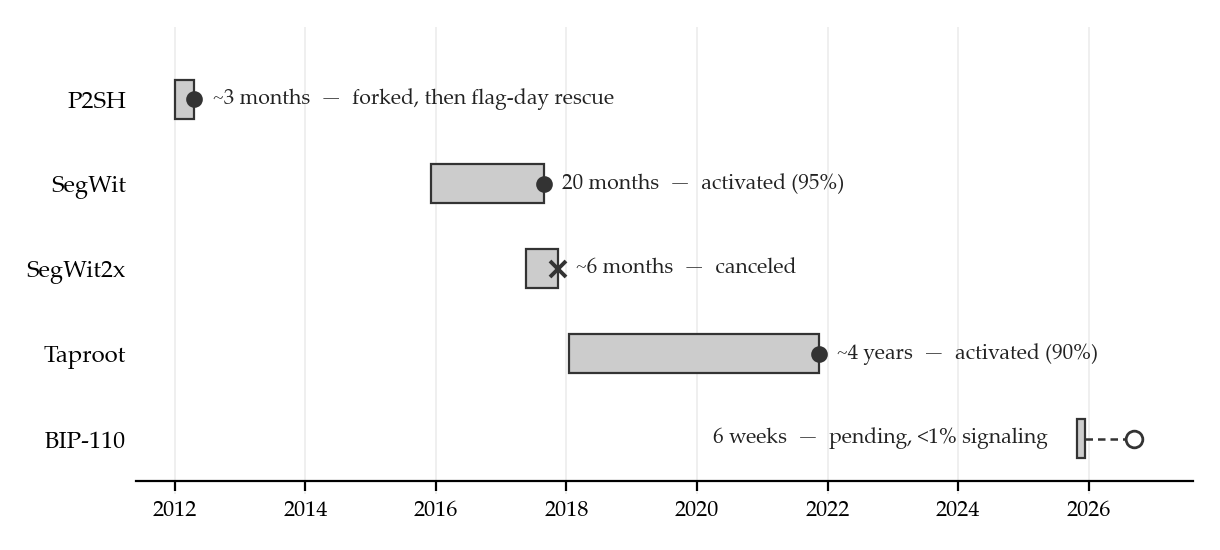
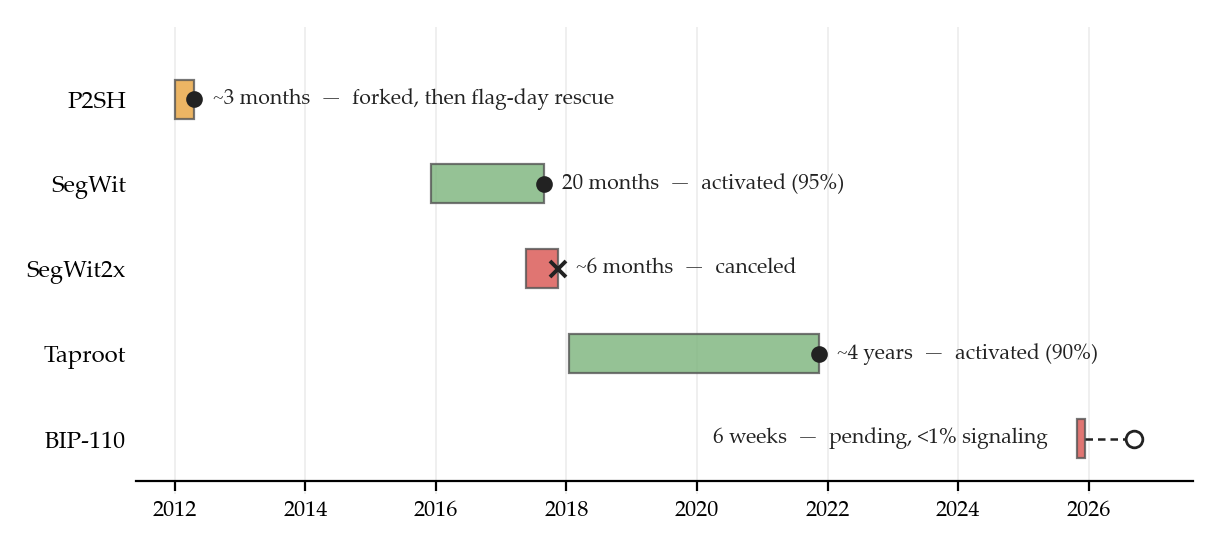
v4: color-code Figure 2.1 bars by outcome, reusing Fig 3.1's risk-band palette
Bar fill now encodes outcome on the same Red/Amber/Green semantic as Fig 3.1's threshold bands and the Sec 5.2 scorecard: green = clean activation (SegWit, Taproot), amber = activated but forked (P2SH), red = canceled/pending (SegWit2x, BIP-110). Length still = review period; the end-cap glyph (dot/x/hollow) repeats outcome in shape, so it stays legible in grayscale and to red-green-colorblind readers. Ties Fig 2.1, Fig 3.1, and the scorecard into one color language. (Per-project rainbow rejected: hue-by-identity is redundant with the lane labels.)

Build: 92 pp (unchanged), exit 0, 0 undefined, 2 overfull (1.98/1.53 pt) + 14 underfull unchanged, 736,128 B. Page 24 render-verified. Monochrome lane chart preserved at References/_fig_2_1_timeline_MONO.* (+ git af3cd46); original timeline at References/_fig_2_1_timeline_OLD.* (+ git 753ff06).

diff --git a/LaTeX/fig_2_1_timeline.py b/LaTeX/fig_2_1_timeline.py
@@ -2,7 +2,11 @@
 # Figure 2.1: review-duration lifecycles of five Bitcoin consensus changes, 2012-2026.
 # One lane per proposal on a shared time axis. Each bar runs from first proposal to
 # activation (or cancellation), drawn to scale, so the bar LENGTH is the review period
-# -- the comparison the caption draws. No vertical leader lines; labels live in-lane.
+# -- the comparison the caption draws. Bar COLOR encodes outcome, reusing Fig 3.1's
+# risk-band palette (green = clean activation, amber = activated but forked, red =
+# canceled / pending) so the two figures and the Sec 5.2 scorecard share one
+# Red<->Green safety semantic. End-cap glyph (dot / x / hollow) repeats the outcome in
+# shape, so the figure survives grayscale printing and red-green colorblindness.
 import matplotlib.pyplot as plt
 
 plt.rcParams.update({
@@ -11,39 +15,40 @@ plt.rcParams.update({
     "font.size": 9,
 })
 
-# name, start(yr), end(yr), duration label, outcome label, end-glyph, pending_end
+# Fig 3.1 band palette
+GREEN, AMBER, RED = "#7bb37b", "#e8a33d", "#d9534f"
+
+# name, start(yr), end(yr), duration label, outcome label, end-glyph, pending_end, color
 LANES = [
-    ("P2SH",     2012.00, 2012.30, "~3 months", "forked, then flag-day rescue", "dot",  None),
-    ("SegWit",   2015.92, 2017.65, "20 months", "activated (95%)",              "dot",  None),
-    ("SegWit2x", 2017.38, 2017.87, "~6 months", "canceled",                     "x",    None),
-    ("Taproot",  2018.04, 2021.87, "~4 years",  "activated (90%)",              "dot",  None),
-    ("BIP-110",  2025.82, 2025.94, "6 weeks",   "pending, <1% signaling",       "open", 2026.70),
+    ("P2SH",     2012.00, 2012.30, "~3 months", "forked, then flag-day rescue", "dot",  None,   AMBER),
+    ("SegWit",   2015.92, 2017.65, "20 months", "activated (95%)",              "dot",  None,   GREEN),
+    ("SegWit2x", 2017.38, 2017.87, "~6 months", "canceled",                     "x",    None,   RED),
+    ("Taproot",  2018.04, 2021.87, "~4 years",  "activated (90%)",              "dot",  None,   GREEN),
+    ("BIP-110",  2025.82, 2025.94, "6 weeks",   "pending, <1% signaling",       "open", 2026.70, RED),
 ]
 
-BAR_FILL = "#cccccc"
-BAR_EDGE = "#333333"
+EDGE = "#555555"
 INK = "#222222"
 y_positions = list(range(len(LANES), 0, -1))   # P2SH on top
 
 fig, ax = plt.subplots(figsize=(6.1, 2.75))
 
-for (name, x0, x1, dur, outcome, glyph, pend), y in zip(LANES, y_positions):
-    # the review-duration bar (length == review period, to scale)
-    ax.barh(y, x1 - x0, left=x0, height=0.46, color=BAR_FILL,
-            edgecolor=BAR_EDGE, lw=0.8, zorder=2)
+for (name, x0, x1, dur, outcome, glyph, pend, color), y in zip(LANES, y_positions):
+    # the review-duration bar (length == review period, to scale; color == outcome)
+    ax.barh(y, x1 - x0, left=x0, height=0.46, color=color, alpha=0.80,
+            edgecolor=EDGE, lw=0.8, zorder=2)
     # BIP-110: dashed extension to the pending forced-activation window + hollow marker
     if pend is not None:
-        ax.plot([x1, pend], [y, y], color=BAR_EDGE, lw=0.9, ls=(0, (3, 2)), zorder=2)
-        ax.plot(pend, y, "o", mfc="white", mec=BAR_EDGE, ms=6, zorder=3)
-    # outcome end-cap glyph: activated (dot), canceled (x), pending (hollow, drawn above)
+        ax.plot([x1, pend], [y, y], color=INK, lw=0.9, ls=(0, (3, 2)), zorder=2)
+        ax.plot(pend, y, "o", mfc="white", mec=INK, ms=6, zorder=3)
+    # outcome end-cap glyph (dark, so it reads on any bar color and in grayscale)
     if glyph == "dot":
-        ax.plot(x1, y, "o", color=BAR_EDGE, ms=5, zorder=3)
+        ax.plot(x1, y, "o", color=INK, ms=5, zorder=3)
     elif glyph == "x":
-        ax.plot(x1, y, "x", color=BAR_EDGE, ms=6, mew=1.4, zorder=3)
+        ax.plot(x1, y, "x", color=INK, ms=6, mew=1.4, zorder=3)
     # annotation: review duration + outcome
     label = "%s  —  %s" % (dur, outcome)
     if name == "BIP-110":
-        # the lane's activity sits at the right edge; annotate in the empty space to its left
         ax.text(x0 - 0.45, y, label, ha="right", va="center", fontsize=7.6, color=INK)
     else:
         xr = (pend if pend is not None else x1) + 0.28
@@ -65,4 +70,4 @@ ax.grid(axis="x", color="#ececec", lw=0.6, zorder=0)
 fig.tight_layout()
 fig.savefig("fig-2-1-timeline.pdf")
 fig.savefig("fig-2-1-timeline.png", dpi=200)
-print("fig 2.1 done")
+print("fig 2.1 colored done")